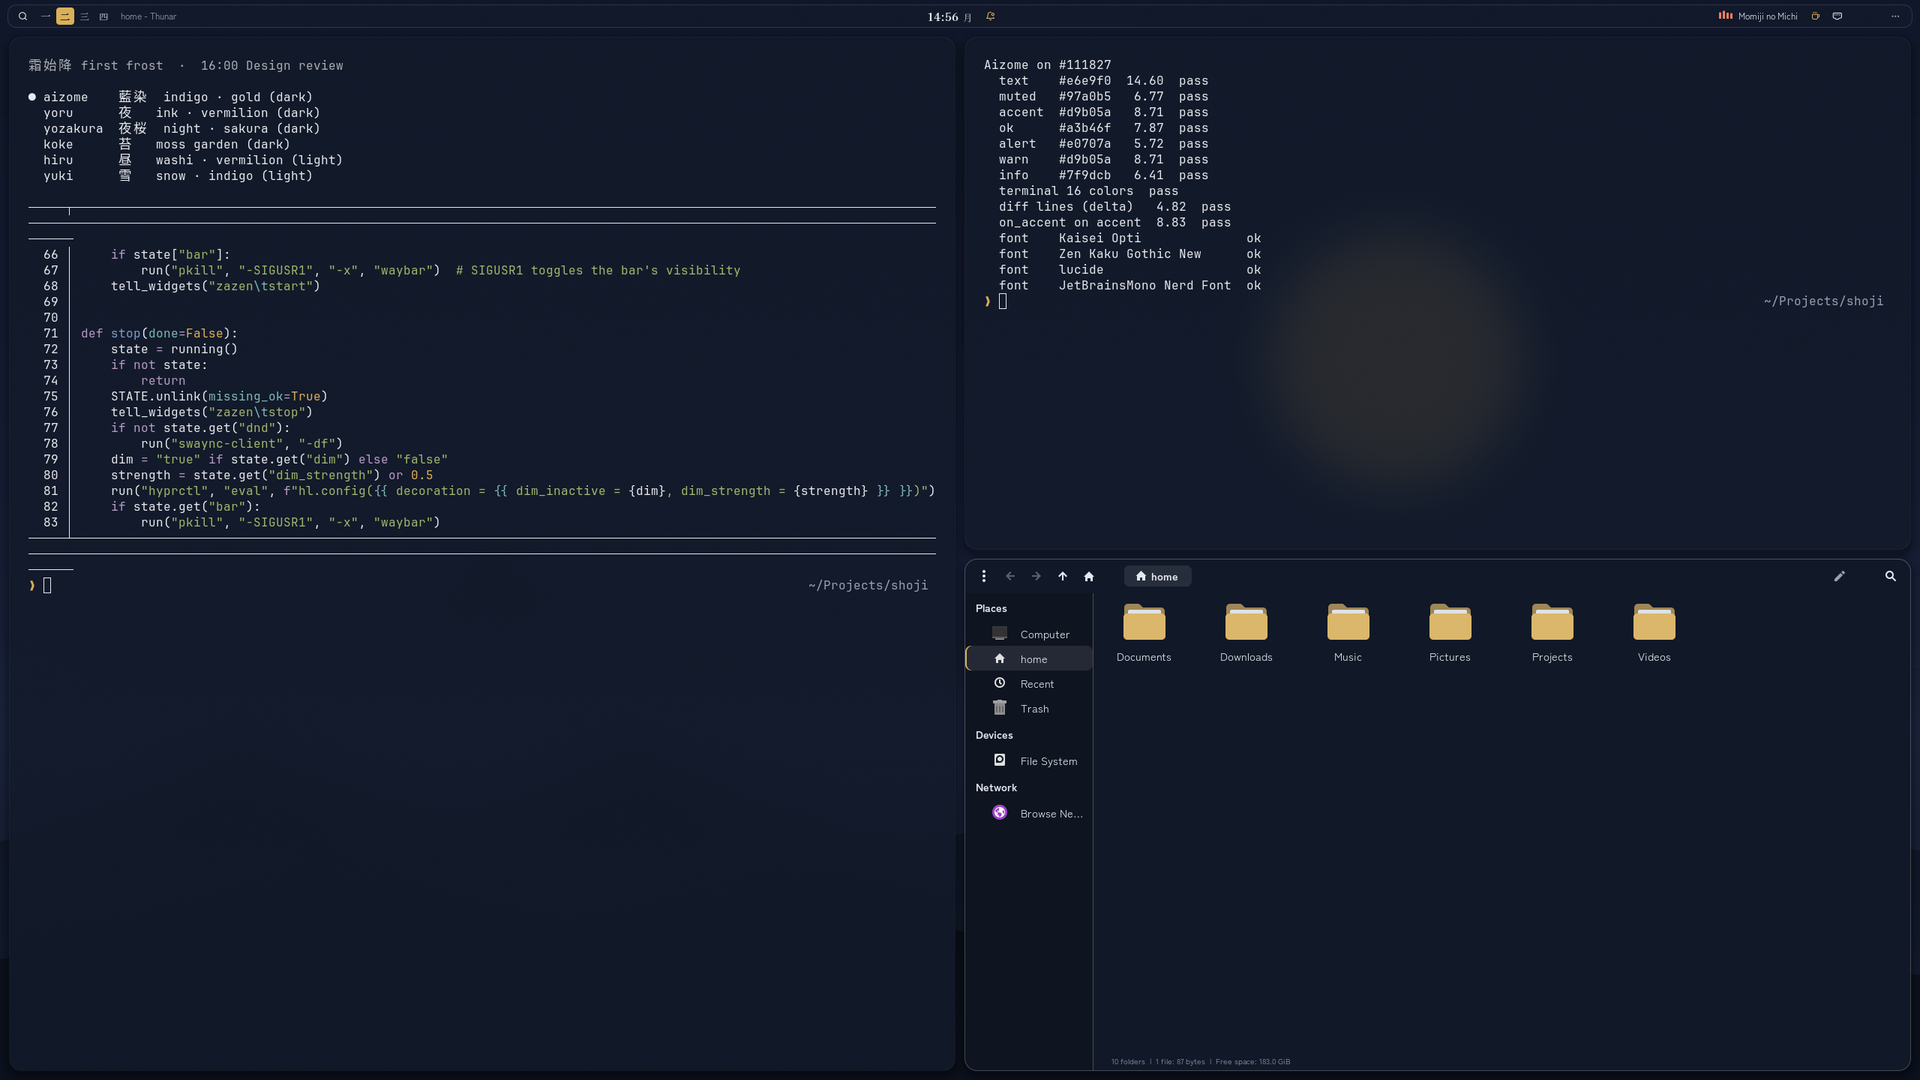
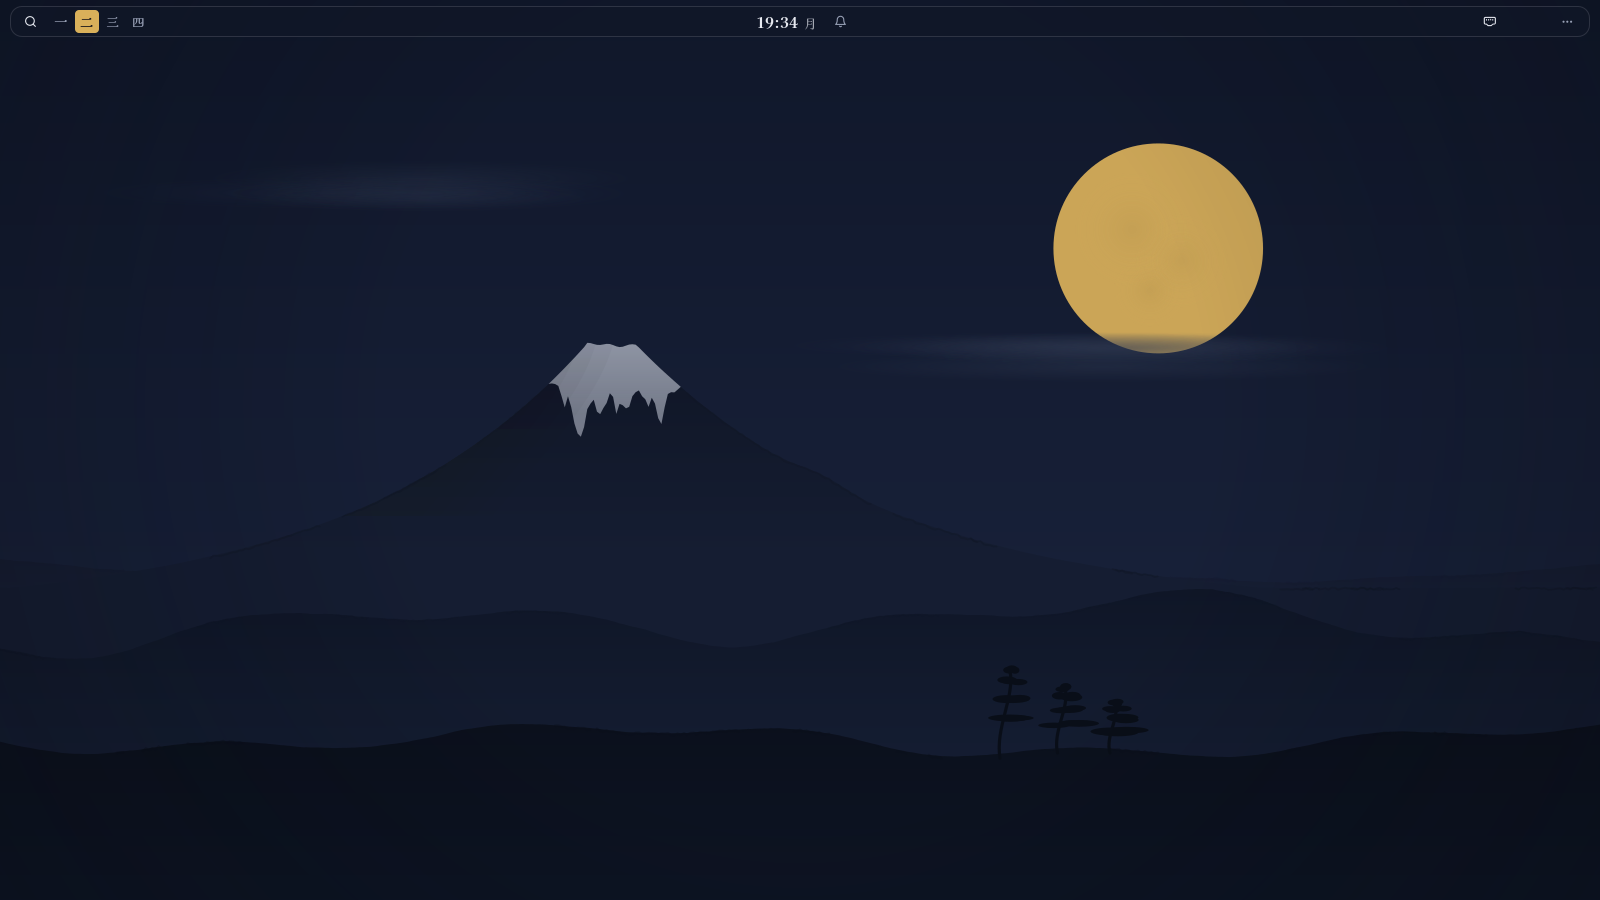
Lock screen: the ensō takes the moon's place; README screenshots
Lock screen: the wallpaper, sharp and without its sun or moon (shoji
renders that variant with each wallpaper), and the brush ensō with the
clock standing in the golden spiral's eye where the moon was, the date
and the password field below it. Positions come from the monitor size
through $lock_* variables in theme.conf. A wallpaper set by hand still
shows on the lock screen as it is.

monitor_size() skipped nothing and could pick a switched-off monitor;
it now ignores disabled ones.

tests/live/run.sh --shots takes the README screenshots on demo data:
the desktop in Aizome and Hiru, Koyomi with the panel, zazen and both
lock screens. Making it work fixed the live test itself: monitor rules
sent right after creating the headless output were lost (the scenarios
ran on a 960x540 scale-2 screen next to the hidden one), the panel and
Shoji's surfaces now start only once the test screen stands alone, and
hyprlock is asked to unlock until it does.

diff --git a/tests/live/scenarios.py b/tests/live/scenarios.py
@@ -30,12 +30,14 @@ def hypr_eval(lua):
     return sh("hyprctl", "eval", lua)
 
 
-def layers():
+def layers(output=None):
+    """Layer namespaces on every output, or on one (the test's screen is OUT)."""
     try:
         data = json.loads(sh("hyprctl", "layers", "-j") or "{}")
     except ValueError:
         return []
-    return [l["namespace"] for mon in data.values() for lv in mon["levels"].values() for l in lv]
+    return [l["namespace"] for name, mon in data.items() if output in (None, name)
+            for lv in mon["levels"].values() for l in lv]
 
 
 def wait(pred, timeout, step=0.5):
@@ -113,6 +115,41 @@ for i in range(desk.get_child_count()):
         print(b.get_action_iface().do_action(0)); break
 '''
     return wait(lambda: sh(sys.executable, "-c", code, name) == "True", timeout, step=2)
+
+
+def screen_alone():
+    """`shoji apply` reloads Hyprland, which brings the hidden window's output back: switch it off
+    again, so sizes and positions come from the test screen alone."""
+    def alone():
+        try:
+            m = {x["name"]: x for x in json.loads(sh("hyprctl", "monitors", "-j"))}
+        except ValueError:
+            return False
+        return set(m) == {OUT} and m[OUT]["width"] == 1600
+    for _ in range(20):
+        hypr_eval(f'hl.monitor({{ output = "{OUT}", mode = "1600x900@60", position = "4000x0", scale = 1 }})')
+        hypr_eval('hl.monitor({ output = "WAYLAND-1", disabled = true })')
+        if alone():
+            break
+        time.sleep(0.5)
+    hypr_eval('hl.dispatch(hl.dsp.cursor.move({ x = 4800, y = 450 }))')
+    sh("hyprctl", "dismissnotify")   # the debug-session notice
+    return alone()
+
+
+def unlock():
+    """SIGUSR1 unlocks hyprlock, but one still loading its pictures misses it: ask again each second."""
+    for _ in range(12):
+        pids = sh("pidof", "hyprlock").split()
+        if not pids:
+            return True
+        for pid in pids:
+            try:
+                os.kill(int(pid), 10)
+            except OSError:
+                pass
+        time.sleep(1)
+    return not sh("pidof", "hyprlock")
 
 
 # ------------------------------------------------------------------ scenarios
@@ -195,9 +232,7 @@ def idle_ink_and_lock():
     check("the lock keeps the ink's picture", (HOME / ".cache/shoji/lock-ink.png").exists())
     time.sleep(2)
     shot("lock")
-    for pid in locked.split():
-        os.kill(int(pid), 10)   # SIGUSR1: hyprlock unlocks
-    check("unlocked", wait(lambda: not sh("pidof", "hyprlock"), 10))
+    check("unlocked", unlock())
     sh("pkill", "-x", "hypridle")
     check("the pointer setting is back", wait(lambda: option("cursor:inactive_timeout") == before, 5),
           f"{option('cursor:inactive_timeout')} vs {before}")
@@ -262,11 +297,70 @@ def eye_rest():
     prefs(eye_rest=False)
 
 
+def readme_shots():
+    """The README's screenshots, on the demo data: the desktop in a dark and a light palette, Koyomi
+    open, and the lock screen (hyprlock itself). Saved to docs/screenshots."""
+    print("README screenshots")
+    docs = Path(os.environ["SHOJI_LIVE_REPO"]) / "docs/screenshots"
+    awww = os.environ["SHOJI_LIVE_AWWW"]
+    hypr_eval(f'hl.exec_cmd("{awww}-daemon")')
+    wait(lambda: "awww-daemon" in layers(), 15)
+    hypr_eval('hl.exec_cmd("waybar")')
+    check("the bar is up", wait(lambda: "waybar" in layers(), 20))
+    for name, palette in (("desktop", "aizome"), ("desktop-light", "hiru")):
+        (HOME / ".cache/shoji/lock.png").unlink(missing_ok=True)   # a fresh lock picture at this size
+        screen_alone()
+        sh(sys.executable, str(BIN / "shoji"), "apply", palette, timeout=60)
+        check(f"the test screen alone after apply ({palette})", screen_alone())
+        sh(sys.executable, str(BIN / "shoji"), "apply", palette, timeout=60)   # again, sized on this screen
+        screen_alone()
+        sh(sys.executable, str(HOME / ".config/shoji/gen_swaync.py"))   # the panel's margin for this width
+        sh("swaync-client", "-R")
+        wall = HOME / f"Pictures/Wallpapers/shoji-{palette}.png"
+        sh(awww, "img", str(wall), "--transition-type", "none")
+        sh("pkill", "-SIGUSR2", "-x", "waybar")
+        restart_widgets()
+        sh("swaync-client", "-C")   # the palette's own notice off the desktop
+        time.sleep(3)
+        shot(name)
+        if palette == "aizome":
+            sh(sys.executable, str(BIN / "shoji-zazen"), "start")
+            check("zazen's ensō", wait(lambda: "hypr-zazen" in layers(OUT), 10))
+            time.sleep(2)
+            shot("zazen")
+            sh(sys.executable, str(BIN / "shoji-zazen"), "stop")
+            wait(lambda: "hypr-zazen" not in layers(OUT), 10)
+            sh("swaync-client", "-C")
+        for app, title, body in (("Mail", "Mei Tanaka", "Photos from the walk to the shrine"),
+                                 ("Builds", "Build finished", "web-app #142 passed in 3 min")):
+            sh("notify-send", "-a", app, title, body)   # demo notifications for the panel
+        time.sleep(1)
+        sh("swaync-client", "-op")
+        check(f"the panel opens ({palette})", wait(lambda: "swaync-control-center" in layers(OUT), 10), ",".join(layers(OUT)))
+        check(f"Koyomi beside it ({palette})", wait(lambda: "hypr-calendar" in layers(OUT), 10), ",".join(layers(OUT)))
+        time.sleep(1.5)
+        shot(f"{name}-koyomi")
+        sh("swaync-client", "-cp")
+        time.sleep(1)
+        hypr_eval('hl.exec_cmd("hyprlock")')
+        locked = wait(lambda: sh("pidof", "hyprlock"), 15)
+        check(f"the lock screen shows ({palette})", locked)
+        time.sleep(2.5)
+        shot(f"lock-{palette}")
+        check(f"unlocked ({palette})", unlock(), sh("pidof", "hyprlock"))
+    for f in SHOTS.glob("*.png"):
+        (docs / f.name).write_bytes(f.read_bytes())
+    print(f"       copied {len(list(SHOTS.glob('*.png')))} screenshots to {docs}")
+
+
 def main():
     end_at = datetime.datetime.fromisoformat(os.environ["SHOJI_LIVE_MEETING_END"])
     SHOTS.mkdir(parents=True, exist_ok=True)
-    for step in (boot, labels_on_screen, meeting_starts, alt_tab, idle_ink_and_lock,
-                 lambda: meeting_ends(end_at), batches, end_of_day, eye_rest):
+    steps = (boot, labels_on_screen, meeting_starts, alt_tab, idle_ink_and_lock,
+             lambda: meeting_ends(end_at), batches, end_of_day, eye_rest)
+    if os.environ.get("SHOJI_LIVE_SHOTS") == "1":
+        steps = (boot, readme_shots)
+    for step in steps:
         try:
             step()
         except Exception as e:  # one broken scenario must not hide the others

diff --git a/README.md b/README.md
@@ -8,7 +8,7 @@ One palette drives everything you see: the bar, the panels, launcher, lock scree
 GTK and Qt apps, folder icons, the wallpaper, even VS Code and Spotify. Eight palettes, all of
 them checked to WCAG 4.5:1 (two of them to 7:1).
 
-![Shoji: terminal, Thunar and the bar in the Aizome palette, under tonight's moon](docs/screenshots/desktop.png)
+![Shoji in the Aizome palette: Fuji under tonight's moon, the bar, Koyomi and the notification panel side by side](docs/screenshots/desktop-koyomi.png)
 
 The look follows three old ideas. **Kanso** (簡素): show a thing only while it matters, so the
 cpu meter, the mic and the notification bell stay quiet until they have something to say.
@@ -16,6 +16,10 @@ cpu meter, the mic and the notification bell stay quiet until they have somethin
 means "you are here" or "this is on".
 
 ## A tour
+
+| Night: Aizome (藍染) | Day: Hiru (昼) |
+|---|---|
+| ![The Aizome wallpaper: Fuji with its autumn snow, mist at its foot, the moon in tonight's phase, three pines](docs/screenshots/desktop.png) | ![The Hiru wallpaper: the same Fuji on washi under a vermilion sun](docs/screenshots/desktop-light.png) |
 
 In motion: Koyomi, now playing, the launcher, the ensō OSD and a zazen session (17 s).
 
@@ -37,7 +41,11 @@ In motion: Koyomi, now playing, the launcher, the ensō OSD and a zazen session 
 
 | Zazen (focus) | Lock screen |
 |---|---|
-| ![Zazen: the bar is gone, other windows dim, an ensō counts down at the top](docs/screenshots/zazen.png) | ![Lock screen: a brush-stroke ensō around the clock, the date in kanji](docs/screenshots/lock.jpg) |
+| ![Zazen: the bar is gone, other windows dim, an ensō counts down at the top](docs/screenshots/zazen.png) | ![Lock screen: the wallpaper without its moon; the brush-stroke ensō and the clock stand where the moon was, the date in kanji and the password field below](docs/screenshots/lock-aizome.png) |
+
+| Lock screen by day | Koyomi on Hiru |
+|---|---|
+| ![Lock screen on Hiru: Fuji on washi, the ensō in the sun's place](docs/screenshots/lock-hiru.png) | ![Koyomi and the notification panel on the light Hiru palette](docs/screenshots/desktop-light-koyomi.png) |
 
 ## What you get
 
@@ -80,8 +88,12 @@ In motion: Koyomi, now playing, the launcher, the ensō OSD and a zazen session 
   and off after, with a note of what waited. Ten minutes before an event a card offers **Join**
   when it carries a Meet / Zoom / Teams link.
 - **Seasonal accent** (optional): 紅梅 spring, 青竹 summer, 紅葉 autumn, 白群 winter.
-- **Wallpaper**: ink-wash mountains under the sun (light palettes) or tonight's real moon phase; the sky
-  turns pink at dawn, gold before sunset and violet after it (夕暮れ, from your city's sun times).
+- **Wallpaper**: Fuji in ink, laid out on the golden ratio: the summit where the 0.382 lines cross,
+  the sun (light palettes) or tonight's real moon phase in the golden spiral's eye, its snow as deep
+  as the season. The sky turns pink at dawn, gold before sunset and violet after it (夕暮れ, from
+  your city's sun times).
+- **Lock screen**: the same picture, sharp, without its moon: the brush-stroke ensō and the clock
+  stand where the moon was, the date in kanji and the password field below.
 
 **Everyday tools**
 - **Launcher** (Super+Space): frequent apps first; Enter focuses an app that is already open.
@@ -310,7 +322,7 @@ wallpaper sky and hills), then `shoji doctor <name>` to check contrast and `shoj
 
 Tested on Ubuntu 24.04 (Zorin OS 18) with Hyprland 0.56.2, waybar 0.14, swaync 0.9 and 0.11, and
 hyprlock 0.9.6, including a clean-home install inside a nested Hyprland (the screenshots come from
-one, with demo data) and two monitors there, one at scale 2 (Koyomi and the swaync panel re-centre on
+one, with demo data: `tests/live/run.sh --shots` takes them again) and two monitors there, one at scale 2 (Koyomi and the swaync panel re-centre on
 whichever monitor has focus; wide sheets fit the screen). The PKGBUILD builds, installs and
 uninstalls cleanly in an `archlinux` container (no Arch desktop session tried yet). Koyomi and the
 popovers speak English, Indonesian and Japanese (prefs `"lang"`). The login screen
